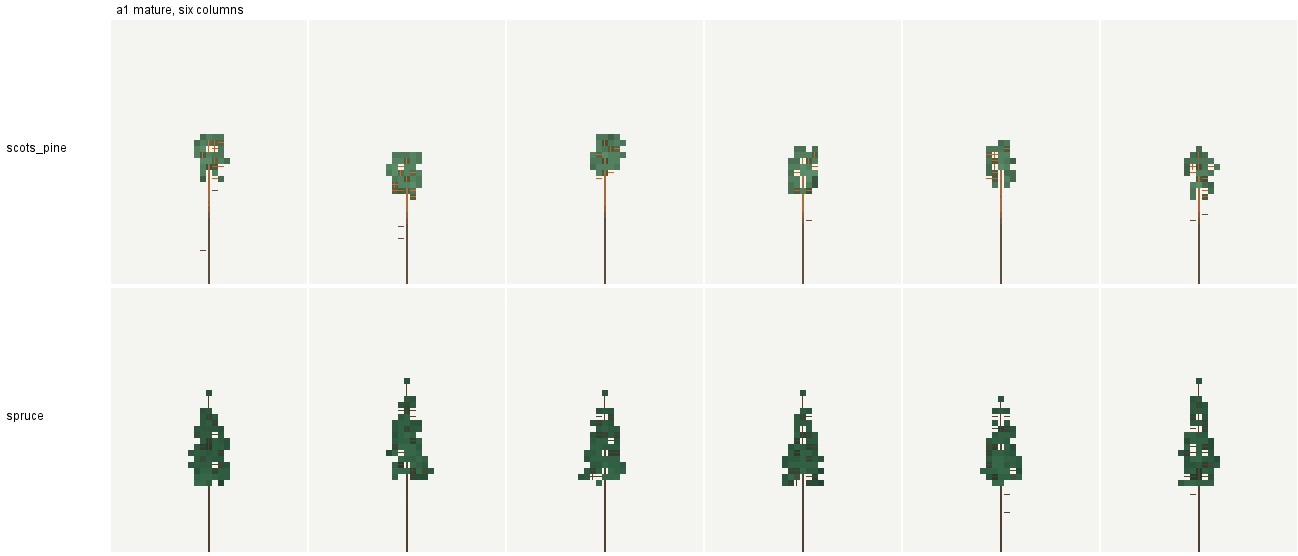
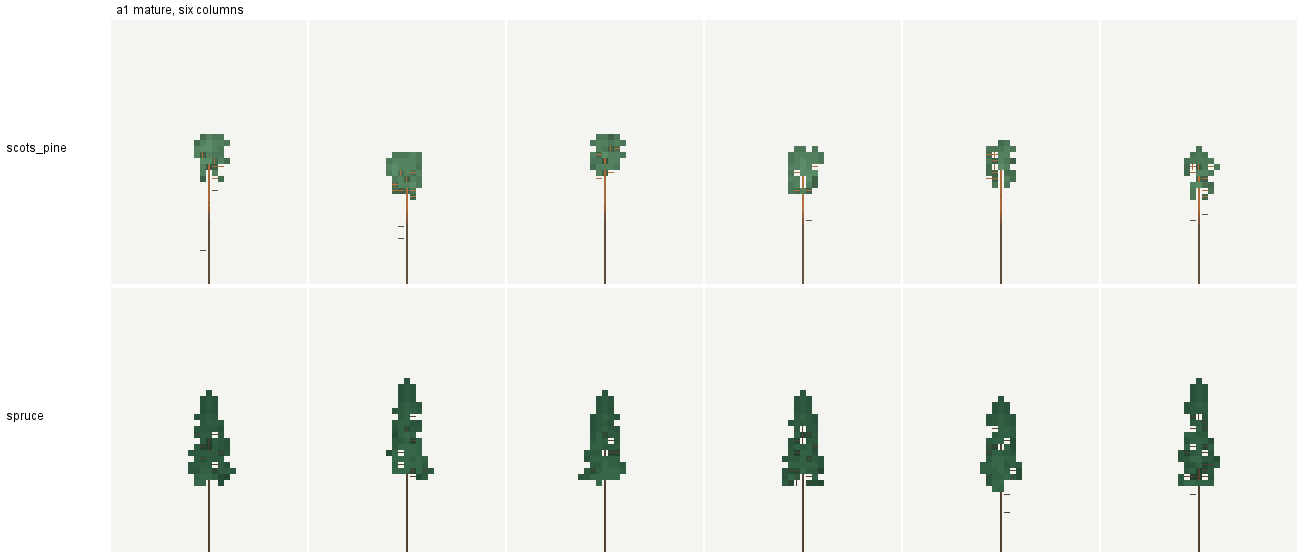
V6 review fixes, round 2
- Spruce spire is a column of needles: a leaf on the four sides of every
  leader block from the highest whorl up and of that whorl's short shoots,
  instead of a bare stick with one leaf floating on top
- Pine leader top block gets the same side leaves, so it never ends bare
- New TreeShapePlanTest.conifersTopsAreColumnsOfNeedles: no empty leaf row
  in the top four rows of 600 canopy spruces (alone and stand form)
- Conifer preview sheets and in-game tree screenshots regenerated; docs/04
  round 2 section, G.12 V6-o and the brief updated

diff --git a/src/main/java/pl/polishforests/worldgen/tree/TreeShapePlan.java b/src/main/java/pl/polishforests/worldgen/tree/TreeShapePlan.java
@@ -266,6 +266,8 @@ public final class TreeShapePlan {
 		private SpeciesShape.Profile profile;
 		private boolean edge;
 		private boolean oldPine;
+		/** Height from which the spruce's leader is a spire without branches (infinite for other trees). */
+		private double spireFrom;
 		private int gridX0;
 		private int gridZ0;
 
@@ -603,13 +605,10 @@ public final class TreeShapePlan {
 					break;
 				}
 			}
-			if (!forks()) {
-				if (shape.archetype() == SpeciesShape.Archetype.SPRUCE && top > 8) {
-					// The spire: one block wide.
-					leafAt(parent, 0.55, leafV * 1.5);
-				} else {
-					leafAt(parent, leafH * 0.85, leafV * 1.2);
-				}
+			spireFrom = shape.archetype() == SpeciesShape.Archetype.SPRUCE && top > 8 ? top - 2.2 : Double.POSITIVE_INFINITY;
+			if (!forks() && spireFrom == Double.POSITIVE_INFINITY) {
+				// (The spruce's spire gets its needles in foliage(): a cross around each of its blocks.)
+				leafAt(parent, leafH * 0.85, leafV * 1.2);
 			}
 			return parent;
 		}
@@ -707,7 +706,7 @@ public final class TreeShapePlan {
 			double phase = range(0, 2 * Math.PI);
 			double y = size.crownBase();
 			// The spruce's spire: its top two blocks without branches (a tree taller than 8 blocks).
-			double end = spruce && top > 8 ? top - 2.2 : top - 0.6;
+			double end = Math.min(spireFrom, top - 0.6);
 			while (y < end) {
 				int at = trunkNode(Math.floor(y));
 				double ay = ny[at];
@@ -1340,6 +1339,30 @@ public final class TreeShapePlan {
 				v *= range(0.85, 1.2);
 				cy += range(-0.4, 0.4);
 				cluster(cx, cy, cz, h, v, hollow);
+			}
+			boolean pine = shape.archetype() == SpeciesShape.Archetype.PINE;
+			if (spireFrom < top || pine && !forks()) {
+				// The spruce's spire is a narrow column of needles, not a bare stick with a tuft (review of V6, round 2): a
+				// leaf on the four sides of each leader block and of the short shoots of the highest whorl, whose own small
+				// clusters may leave their row bare; the shoot cover below adds the leaf above the top. The pine's leader
+				// gets the same around its top block only (its crown below stays open).
+				int from = pine ? (int) Math.floor(top) : (int) Math.floor(spireFrom) - 1;
+				for (int i = 0; i < woods; i++) {
+					int pos = wPos[i];
+					int y = TreeVoxels.unpackY(pos);
+					if (y < from || wRadius[i] > DIAGONAL_RADIUS || nKind[wOwner[i]] == STUB && nLeafH[wOwner[i]] <= 0) {
+						continue;
+					}
+					int x = TreeVoxels.unpackX(pos);
+					int z = TreeVoxels.unpackZ(pos);
+					for (int side = 0; side < 4; side++) {
+						int lx = x + (side == 0 ? 1 : side == 1 ? -1 : 0);
+						int lz = z + (side == 2 ? 1 : side == 3 ? -1 : 0);
+						if (leafCell(lx, y, lz) && stamp[cellOf(lx, y, lz)] != current) {
+							addLeaf(lx, y, lz);
+						}
+					}
+				}
 			}
 			// Shoots are covered: a leaf right above every thin branch block of the crown, so no bare branch tops the
 			// crown seen from above.

diff --git a/src/test/java/pl/polishforests/worldgen/tree/TreeShapePlanTest.java b/src/test/java/pl/polishforests/worldgen/tree/TreeShapePlanTest.java
@@ -569,6 +569,54 @@ class TreeShapePlanTest {
 		return p == 0 || v.parent(p) <= TreeVoxels.UP;
 	}
 
+	/**
+	 * The conifer's top is a column of needles, not a bare leader with one leaf floating above it (review of V6, round 2):
+	 * for 100 canopy spruces per age class, grown alone and in the stand form, the top four leaf rows follow one another
+	 * without an empty row. The pine's open crown is reported; only its leader's top block must have needles beside it.
+	 */
+	@Test
+	void conifersTopsAreColumnsOfNeedles() {
+		StringBuilder report = new StringBuilder("[tree shape] conifer tops, trees with an empty leaf row in the top four of 100"
+				+ " (alone / stand form)\n");
+		int spruceGaps = 0;
+		for (Species s : List.of(Species.SPRUCE, Species.SCOTS_PINE)) {
+			for (AgeClass age : AgeClass.values()) {
+				int[] gaps = new int[2];
+				for (int form = 0; form < 2; form++) {
+					for (int k = 0; k < 100; k++) {
+						TreeVoxels v = TreeShapePlan.plan(new TreeRequest(s, CrownLayer.CANOPY, age, SEED, 263 * k - 13000, 64,
+								-181 * k + 50, null, null, form == 1 ? StandMap.uniform(age, true) : null));
+						Set<Integer> rows = new HashSet<>();
+						int top = Integer.MIN_VALUE;
+						for (int i = 0; i < v.leafCount(); i++) {
+							rows.add(v.leafY(i));
+							top = Math.max(top, v.leafY(i));
+						}
+						boolean gap = false;
+						for (int y = top - 3; y < top; y++) {
+							gap |= !rows.contains(y);
+						}
+						if (gap) {
+							gaps[form]++;
+							if (s == Species.SCOTS_PINE) {
+								// The pine's crown is open (bare rows between tufts are allowed), but its leader never ends
+								// bare: the row below the top leaf has needles.
+								assertTrue(rows.contains(top - 1), "bare leader top of a pine, " + age + ", k " + k);
+							}
+						}
+					}
+				}
+				report.append(String.format(Locale.ROOT, "  %-13s %-10s %3d / %3d%n", s.id(), age.name().toLowerCase(Locale.ROOT),
+						gaps[0], gaps[1]));
+				if (s == Species.SPRUCE) {
+					spruceGaps += gaps[0] + gaps[1];
+				}
+			}
+		}
+		System.out.print(report);
+		assertEquals(0, spruceGaps, "spruces with an empty leaf row in their top");
+	}
+
 	private static int lowestLeaf(TreeVoxels v) {
 		int lowest = Integer.MAX_VALUE;
 		for (int k = 0; k < v.leafCount(); k++) {

diff --git a/docs/04-pionowy-wycinek.md b/docs/04-pionowy-wycinek.md
@@ -1502,3 +1502,17 @@ Tablica w grze (`slice -Psites=trees`, PASS): 332 drzewa, 14 758 bloków drewna,
 **Sprawy otwarte.** Korona dębu ma szerokość / wysokość ok. 1,1, nie 1,3–1,6 (w drzewostanie ogranicza ją terytorium, samotny dąb ma dłuższą koronę); jeśli przy CP-B dąb będzie za mało „dębowy”, lekka kolonizacja przestrzeni tylko dla dębu (budżet pozwala: 0,19 ms z 0,5). Z daleka, pod światło, na brzegu boru nadal widać jasne cienkie odcinki gałęzi sosen pod kępami (nasady gałęzi przy przewodniku); kolanek i haków w gałęziach praktycznie nie ma, ale kanciasty wygląd cienkich pni przy kolankach to cecha bloku pnia (pasek kolanka, V10). Powierzchnie podziału liczą się od podstawy pnia, więc na stoku liście sąsiednich pięter mogą się spotkać (V9).
 
 **Testy.** `TreeShapePlanTest` (13 testów, w tym nowe: `partialWritesGiveTheDistancesOfWhatExists`, `layersKeepToTheirSplitSurfaces` zamiast testu pasm, `splitSurfacesAreWavyAndOrdered`, `standsHaveNoEmptyLeafRow`, `branchesMakeNoHooksAndFewElbows`; sylwetki w formie drzewostanu z minimum długości korony; „lustro” sosny z suchymi kikutami kory dolnej), `ProceduralTreeStatesTest`, `CrownTerritoryTest`, `TreeShapePlanCostTest` (`costTest`), `fastTest`, gametest `slice -Psites=trees` (PASS, z drzewami z kamieniami), pełny zestaw `tools/dev/run-tests test`.
+
+### Runda 2 poprawek po przeglądzie V6 (2026-10-17)
+
+Przegląd rundy 1 zgłosił 1 problem poważny i powtórzył 10 drobnych z pierwszego przeglądu. Wszystkie sprawdzone w kodzie.
+
+**Poważny (prawdziwy, poprawiony): iglica świerka jak antena z pomponem.** Runda 1 zostawiła 2 górne bloki przewodnika bez gałęzi, a skupienie „iglicy” (promień poziomy 0,55) mogło postawić liście tylko w kolumnie przewodnika, czyli nad jego szczytem: goły pręt 1–3 bloków z jednym liściem na czubku (u 79–96% świerków okapu pusty rząd liści pod najwyższym). Teraz iglica to kolumna igieł: liść z czterech stron każdego bloku przewodnika od rzędu pod najwyższym okółkiem w górę i z czterech stron krótkich pędów tego okółka (ich własne małe skupienia zostawiały czasem cały rząd bez liścia), a liść nad szczytem daje osłona pędów. Skupienie na szczycie usunięte. Sosna dostała to samo tylko wokół najwyższego bloku przewodnika (jej korona dalej ażurowa, puste rzędy między kępami dozwolone). G.12 V6-o zmienione.
+
+Pomiar (`conifersTopsAreColumnsOfNeedles`, nowy test: 100 drzew okapu na gatunek, wiek i formę, drzewa z pustym rzędem wśród czterech najwyższych rzędów liści, samotne / forma drzewostanu): świerk drągowina 0 / 0, dojrzały 0 / 0, starodrzew 0 / 0 (wersja z liśćmi tylko wokół przewodnika dawała 1 / 4, 0 / 0, 0 / 1 przez gołe pędy najwyższego okółka; runda 1 według przeglądu 79–96%); sosna 0 / 2, 0 / 0, 0 / 0 (dwa młode drzewa w drzewostanie z gołym okółkiem trzy rzędy pod szczytem; test pilnuje, że rząd tuż pod najwyższym liściem sosny zawsze ma liście). Arkusz `iglaste_bok.png`: każdy świerk kończy się iglicą szeroką na 3 bloki z liściem na czubku, bez oderwanego piksela. W grze (`trees_vanilla_spruce.png`) bez pływających kęp.
+
+**Drobne (10, wszystkie już poprawione w rundzie 1; sprawdzone ponownie w kodzie, nie fałszywe alarmy, tylko powtórzone z pierwszego przeglądu):** `write` liczy odległości przez stawiane liście (`leafDistances(written, placeable)`); sprawdzenie w grze porównuje odległość każdego liścia ze światem i ma drzewa z kamieniami; test częściowego drewna `partialWritesGiveTheDistancesOfWhatExists`; drzewa samotne w formie wolnostojącej (`TreeRequest.openGrown`, V6-n; dotyczy dwóch zgłoszeń: pasmo okapu u drzew bez terytorium i „lizaki” ficzera); kompromis N2 jako pytanie do CP-B (wyżej); bez `/place feature` w javadocu i G.12 V6-g; suche kikuty z korą dolną; stara sosna jako parasol; podrost bez wspólnego pułapu; skupienia jesionu i buka bez „naleśników”.
+
+**Pomiary po rundzie.** Koszt planera (`costTest`, spokojna maszyna) bez zmian: świerk 0,100 / 0,120 ms, sosna 0,059 / 0,066 ms (budżet 0,2), drzewostan 0,046 ms (bór) i 0,061 ms (grąd) na drzewo. Tablica w grze (`slice -Psites=trees -PtimingsReportOnly`, PASS): 332 drzewa, 14 757 bloków drewna, wszystkie na miejscu, 29 254 liście, każdy z odległością ≤ 6 popartą światem, zaraz i po 200 tickach; drzewa z kamieniami: 2835 liści, wszystkie poparte; ekoton: 246 liści i 16 bloków drewna proceduralnego zależnych od kolejności (bez zmian). Zrzuty `docs/wycinek/drzewa/gra/` i arkusze iglastych przegenerowane.
+
+**Testy.** `TreeShapePlanTest` (14 testów, nowy `conifersTopsAreColumnsOfNeedles`), `fastTest`, `costTest` dla `TreeShapePlanCostTest`, gametest `slice -Psites=trees`, pełny zestaw `tools/dev/run-tests test`.

diff --git a/docs/00-decyzje-do-podjecia.md b/docs/00-decyzje-do-podjecia.md
@@ -316,5 +316,5 @@ Wybory przyjęte w kroku V6 (planer drzew `TreeShapePlan`) bez pytania, zgodnie 
 | V6-l | Liść nad każdym cienkim blokiem pędu w koronie (osłona od góry); skupienia liści to postrzępione elipsoidy z dziurami (wypełnienie 0,74–0,92), duże korony liściaste puste w środku (rdzeń 0,4–0,45 promienia obwiedni poniżej górnej 1/5 korony) | Bez osłony z góry widać było gołe gałęzie sosny na ok. 1/4 kolumn okapu (podgląd z góry) |
 | V6-m | **Zapas z planu niepotrzebny:** planer kosztuje 0,02–0,15 ms na drzewo (budżety 0,2 i 0,5 ms), więc bez biblioteki gotowych szkieletów; korony liściaste z modelu parametrycznego z losowym kątem złotym, rozwidleniem dębu i dziurami w skupieniach, bez kolonizacji przestrzeni | Kolonizacja przestrzeni (150–300 punktów, T-D3) zostaje opcją, gdyby użytkownik przy CP-B uznał korony za zbyt regularne; koszt pozwala ją dodać |
 | V6-n | **Drzewo wolnostojące** (żądanie bez terytorium i bez mapy drzewostanu: ficzer `procedural_tree`, sadzonki V7): bez powierzchni podziału nad i pod koroną okapu, udział korony +0,15 (najwyżej 0,8), promień korony × 1,25 | Runda 1 przeglądu: drzewa samotne były „lizakami” z koroną w górnych 15–40%. Drzewo w drzewostanie (terytorium albo mapa drzewostanu) ma formę zwarcia |
-| V6-o | **Świerk:** okółki obracane o kąt złoty, 3–5 gałęzi, 35% gałęzi o blok wyżej, długości × 0,72–1,1, końce dolnych okółków opadają do ok. 55° (1–2 bloki), górne lekko wznoszą się; szczyt drzew wyższych niż 8 bloków to iglica szeroka na 1 blok (2 bloki bez gałęzi). **Sosna:** kępy igieł na zewnętrznej połowie każdej gałęzi; w starodrzewie parasol: korona 0,22–0,27 wysokości, promień × 1,3, 2–3 długie konary na okółek co 1,4 × odstęp, płaskie kępy | Runda 1 przeglądu (płaskie dno i kwadrat z góry świerka; stara sosna nie wyglądała na starą) |
+| V6-o | **Świerk:** okółki obracane o kąt złoty, 3–5 gałęzi, 35% gałęzi o blok wyżej, długości × 0,72–1,1, końce dolnych okółków opadają do ok. 55° (1–2 bloki), górne lekko wznoszą się; szczyt drzew wyższych niż 8 bloków to iglica (2 bloki bez gałęzi) jako kolumna igieł: liść z czterech stron każdego bloku przewodnika i krótkich pędów najwyższego okółka oraz liść nad szczytem (runda 2; wcześniej goły pręt z jednym liściem na czubku). **Sosna:** kępy igieł na zewnętrznej połowie każdej gałęzi, liść z czterech stron najwyższego bloku przewodnika (runda 2: przewodnik nie kończy się gołym blokiem); w starodrzewie parasol: korona 0,22–0,27 wysokości, promień × 1,3, 2–3 długie konary na okółek co 1,4 × odstęp, płaskie kępy | Runda 1 przeglądu (płaskie dno i kwadrat z góry świerka; stara sosna nie wyglądała na starą); runda 2 (iglica świerka jak antena z pomponem) |
 | V6-p | Skupienia liści z własną głębokością (× 0,85–1,2) i przesunięciem w pionie (±0,4); u liściastych promień pionowy co najmniej 0,8 poziomego. Gołe cienkie końce gałęzi bez liścia obok (przycięte skupienia) są usuwane | Runda 1 przeglądu („naleśniki” jesionu i buka a2, gołe zadarte końce) |

diff --git a/docs/BRIEF.md b/docs/BRIEF.md
@@ -10,7 +10,7 @@ Mod Fabric do Minecrafta 26.3 (Java 25, Loom, Gradle 9.7, JDK z `gradle.properti
 
 - M0, M1 i M2 zamknięte (M2: punkty kontrolne 1 i 2 przyjęte 2026-10-14; decyzje M2-13 … M2-27 domyślne, do potwierdzenia, `docs/00` E).
 - Pionowy wycinek (grąd i bór świeży, plan `docs/04-pionowy-wycinek.md`), część 1 zrobiona: V0, V1, V2 (+V2b), V3, V5, CP-A (styl tekstur i cienki pień przyjęte, `docs/00` G.9).
-- Część 2: **V1b** (wygładzenie tekstur), **V4** (karta norm, pomiar bazowy M2: `docs/wycinek/karta-norm-m2.md`) i **V6** (planer drzew `TreeShapePlan`, ficzer `procedural_tree`, podgląd `docs/wycinek/drzewa/`; świat jeszcze bez nowych drzew, podłącza je V9) zrobione; runda 1 przeglądu V6: faliste powierzchnie podziału pięter zamiast pasm, gałęzie jako krzywe bez kolanek i haków, drzewa wolnostojące (pytanie do CP-B: kompromis N2, `docs/04` „Runda 1 poprawek po przeglądzie V6”). **Następne: V7** (liście, sadzonki, LITE sosny), **V9** (`StandMap`, drzewostan wycinka; usuwa pas słabszego pokrycia koron na granicach chunków, V5-i), **V10** (pomiary i budżety; rozstrzyga pasek kolanka i dziury w narożnikach czapki pnia), potem **CP-B**.
+- Część 2: **V1b** (wygładzenie tekstur), **V4** (karta norm, pomiar bazowy M2: `docs/wycinek/karta-norm-m2.md`) i **V6** (planer drzew `TreeShapePlan`, ficzer `procedural_tree`, podgląd `docs/wycinek/drzewa/`; świat jeszcze bez nowych drzew, podłącza je V9) zrobione; runda 1 przeglądu V6: faliste powierzchnie podziału pięter zamiast pasm, gałęzie jako krzywe bez kolanek i haków, drzewa wolnostojące (pytanie do CP-B: kompromis N2, `docs/04` „Runda 1 poprawek po przeglądzie V6”); runda 2: iglica świerka jako kolumna igieł. **Następne: V7** (liście, sadzonki, LITE sosny), **V9** (`StandMap`, drzewostan wycinka; usuwa pas słabszego pokrycia koron na granicach chunków, V5-i), **V10** (pomiary i budżety; rozstrzyga pasek kolanka i dziury w narożnikach czapki pnia), potem **CP-B**.
 - Tor sarny **V8** gotowy na gałęzi `slice-fauna` (model i kalibracja GeckoLib, runda 1 poprawek), **wstrzymany przez użytkownika, nie scalać**.
 
 ## Konwencje
